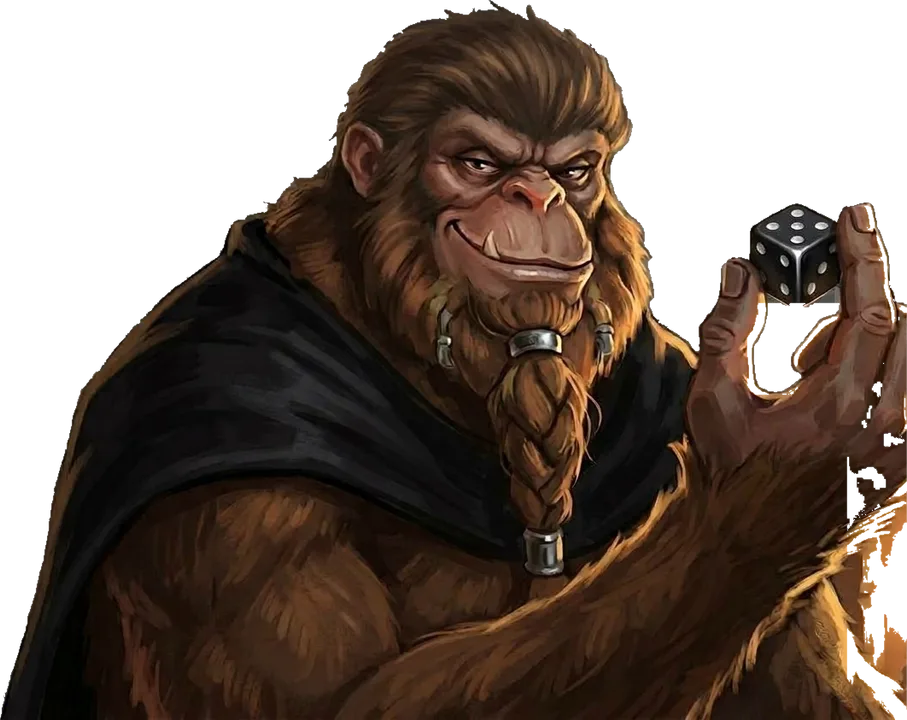
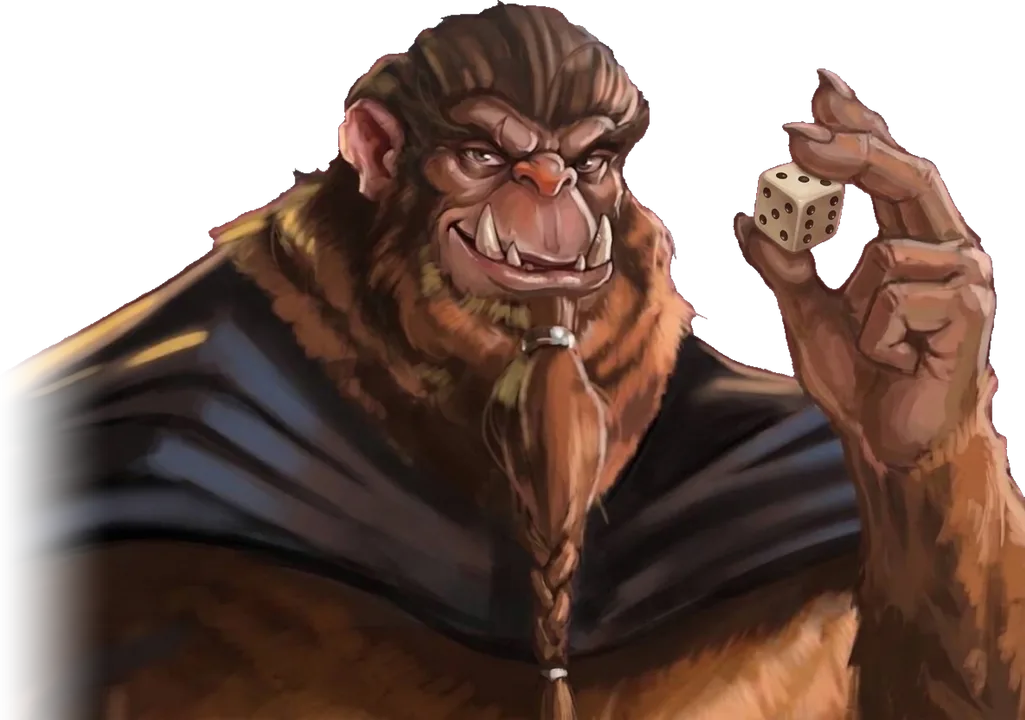
Klarg's new bust and Reach Around painting
The user's second paintings of him, on magenta (the first kept as -v1). His
seat moved down a little so his head clears the header on a phone. The paw
that takes your die is still cut from the old painting.

diff --git a/client/src/portraits.ts b/client/src/portraits.ts
@@ -54,7 +54,8 @@ export const PORTRAITS: Record<string, Portrait> = {
     'Martha as Frak': { ...seated('martha-frak.webp', [55, 32], 0.95, 703, 720, [1.2, -12.9]), seat: 1.15 },
     'Martha as Danhausen': { ...seated('martha-danhausen.webp', [58, 33], 1, 729, 720, [-19.1, -9.5]), seat: 1.15 },
     'Martha as Duke Morrigan': { ...seated('martha-duke.webp', [57, 33], 0.9, 718, 720, [4.5, -11.3]), seat: 1.15 },
-    Klarg: seated('klarg.webp', [62, 26], 1.3, 907, 720, [10.2, -11.9]),
+    // (His second painting, 13 Nov, the user's: the round portrait and the seat to be framed again in the tuning panel.)
+    Klarg: seated('klarg.webp', [52, 22], 1.3, 1025, 720),
     Rokr: seated('rokr.webp', [46, 28], 1.75, 952, 720, [-1.3, -7.7]),
     // Áéd, the dragon sorcerer (the user's painting, 11 Nov): framed by the user in the Portraits tab (13 Nov).
     'Áéd': seated('aed.webp', [54, 20], 1.7, 625, 720, [-10.8, -9.8]),
@@ -197,7 +198,7 @@ const SEATS: Record<string, SeatEdit> = {
     'The Ridgeler': { size: 1, shift: [-8.5, -4.5] },
     // 13 Nov, the user's.
     'Áéd': { size: 1.24, shift: [-0.5, 0] },
-    Klarg: { size: 1, shift: [6.5, 0] }
+    Klarg: { size: 1, shift: [0, 6] }
 };
 Object.entries(SEATS).forEach(([key, { size, shift }]) => { PORTRAITS[key].seat = size; PORTRAITS[key].seatShift = shift; });
 export const SEATABLE = Object.keys(PORTRAITS).filter(k => PORTRAITS[k].bust && PORTRAITS[k].center && k !== 'The Molar');
